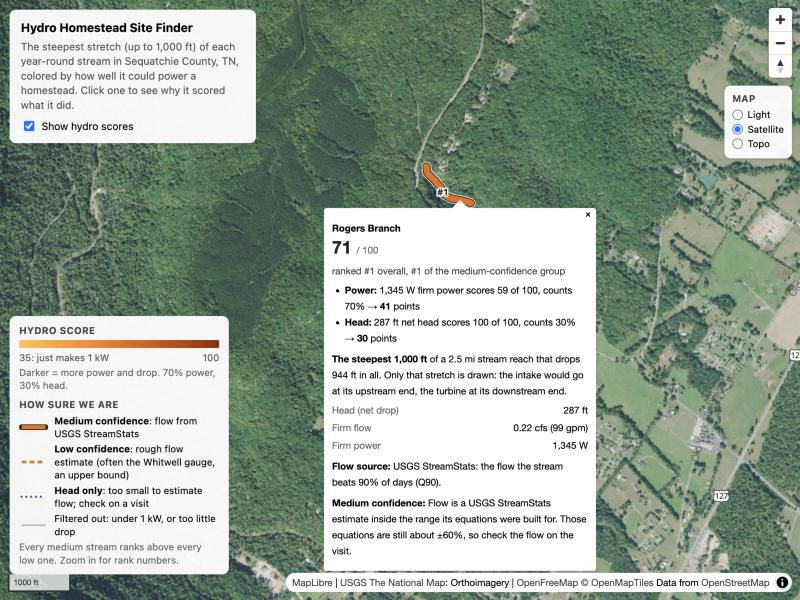
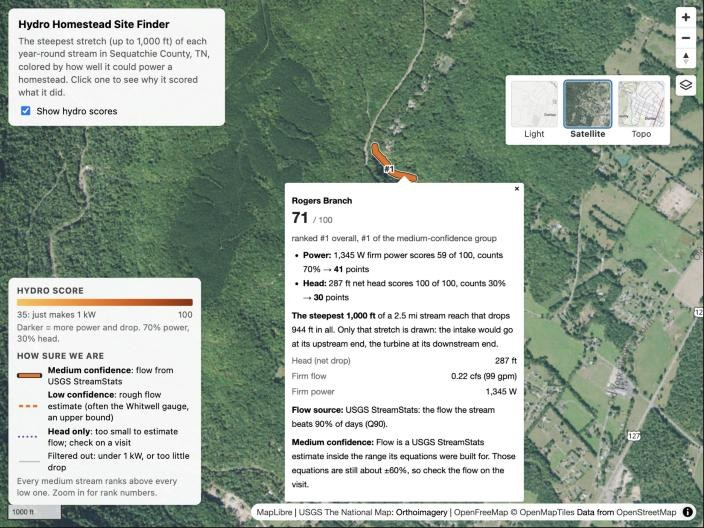
PART 11: Make the basemap picker a layers button in the map controls
The always-open "Map" card under the zoom buttons looked out of place.
It is now a MapLibre control in the same top-right stack: a layers
button styled like the zoom buttons that opens a menu to its left with a
thumbnail of each map (Light, Satellite, Topo). Picking one, clicking
elsewhere or pressing Escape closes it; the button's tooltip names the
current map. As a real control it stacks under the zoom buttons without
a hard-coded offset, so the phone-only panel rule is gone too.

Thumbnails are 128 px crops of each map around Dunlap in
frontend/public/basemaps/. README screenshots retaken (the satellite one
shows the open menu).

diff --git a/frontend/src/BasemapControl.ts b/frontend/src/BasemapControl.ts
@@ -1,0 +1,89 @@
+// The "layers" button under the zoom buttons. It opens a menu to its left with a thumbnail of each
+// basemap; picking one calls onChange. Plain DOM, like MapLibre's own controls, so it stacks with them.
+// The thumbnails (public/basemaps/) are 128 px screenshots of each map around Dunlap, data layers hidden.
+import type { IControl } from "maplibre-gl";
+import { BASEMAPS } from "./basemaps";
+
+// Two stacked sheets: the usual "map layers" icon.
+const ICON = `
+  <svg width="20" height="20" viewBox="0 0 24 24" fill="none" stroke="#333" stroke-width="2"
+       stroke-linejoin="round" aria-hidden="true">
+    <path d="M12 3 2 8.5l10 5.5 10-5.5z" />
+    <path d="m2 13.5 10 5.5 10-5.5" />
+  </svg>`;
+
+export class BasemapControl implements IControl {
+  private container = document.createElement("div");
+  private button = document.createElement("button");
+  private menu = document.createElement("div");
+  private choices = new Map<string, HTMLButtonElement>();
+
+  constructor(
+    public value: string,
+    private onChange: (id: string) => void,
+  ) {}
+
+  onAdd(): HTMLElement {
+    this.container.className = "maplibregl-ctrl basemap-ctrl";
+    const group = document.createElement("div");
+    group.className = "maplibregl-ctrl-group";
+    this.button.type = "button";
+    this.button.innerHTML = ICON;
+    this.button.setAttribute("aria-haspopup", "true");
+    this.button.setAttribute("aria-expanded", "false");
+    this.button.addEventListener("click", () => this.setOpen(this.menu.hidden));
+    group.append(this.button);
+
+    this.menu.className = "basemap-menu";
+    this.menu.hidden = true;
+    for (const b of BASEMAPS) {
+      const choice = document.createElement("button");
+      choice.type = "button";
+      choice.innerHTML = `<img src="/basemaps/${b.id}.jpg" alt="" width="64" height="64" /><span>${b.label}</span>`;
+      choice.addEventListener("click", () => {
+        this.select(b.id);
+        this.setOpen(false);
+        this.button.focus();
+      });
+      this.choices.set(b.id, choice);
+      this.menu.append(choice);
+    }
+    this.container.append(group, this.menu);
+    this.container.addEventListener("keydown", this.onKeyDown);
+    document.addEventListener("pointerdown", this.onPointerDown);
+    this.select(this.value, false);
+    return this.container;
+  }
+
+  onRemove() {
+    document.removeEventListener("pointerdown", this.onPointerDown);
+    this.container.remove();
+  }
+
+  private select(id: string, notify = true) {
+    this.value = id;
+    const label = BASEMAPS.find((b) => b.id === id)?.label ?? id;
+    this.button.title = `Map: ${label}`;
+    this.button.setAttribute("aria-label", `Change map (now ${label})`);
+    for (const [choiceId, choice] of this.choices) choice.setAttribute("aria-pressed", String(choiceId === id));
+    if (notify) this.onChange(id);
+  }
+
+  private setOpen(open: boolean) {
+    this.menu.hidden = !open;
+    this.button.setAttribute("aria-expanded", String(open));
+    if (open) this.choices.get(this.value)?.focus();
+  }
+
+  // Close on Escape or on a click anywhere else.
+  private onKeyDown = (e: KeyboardEvent) => {
+    if (e.key === "Escape" && !this.menu.hidden) {
+      this.setOpen(false);
+      this.button.focus();
+    }
+  };
+
+  private onPointerDown = (e: PointerEvent) => {
+    if (!this.menu.hidden && !this.container.contains(e.target as Node)) this.setOpen(false);
+  };
+}

diff --git a/frontend/src/App.tsx b/frontend/src/App.tsx
@@ -1,6 +1,6 @@
 import { useEffect, useRef, useState } from "react";
 import maplibregl, { type ExpressionSpecification, type MapGeoJSONFeature } from "maplibre-gl";
-import { BasemapSwitcher } from "./BasemapSwitcher";
+import { BasemapControl } from "./BasemapControl";
 import { LIGHT_STYLE, addBasemapLayers, saveBasemap, savedBasemap, showBasemap } from "./basemaps";
 import { Legend } from "./Legend";
 import { CFS_TO_GPM, SCORE_LAYERS, scorePopupHtml } from "./scores";
@@ -51,8 +51,6 @@ export function App() {
   const mapRef = useRef<maplibregl.Map>();
   const [showScores, setShowScores] = useState(true);
   const showScoresRef = useRef(showScores);
-  const [basemap, setBasemap] = useState(savedBasemap);
-  const basemapRef = useRef(basemap);
 
   useEffect(() => {
     const map = new maplibregl.Map({
@@ -63,6 +61,11 @@ export function App() {
     });
     mapRef.current = map;
     map.addControl(new maplibregl.NavigationControl(), "top-right");
+    const basemaps = new BasemapControl(savedBasemap(), (id) => {
+      saveBasemap(id);
+      if (map.getLayer("scores-hit")) showBasemap(map, id);
+    });
+    map.addControl(basemaps, "top-right");
     map.addControl(new maplibregl.ScaleControl({ unit: "imperial" }));
 
     map.on("load", () => {
@@ -117,7 +120,7 @@ export function App() {
       // Every perennial stream has a scored corridor, so the scores replace the streams layer when shown.
       for (const layer of SCORE_LAYERS) map.addLayer(layer);
       setScoresVisible(map, showScoresRef.current);
-      showBasemap(map, basemapRef.current);
+      showBasemap(map, basemaps.value);
 
       // With scores on, a click explains the score; with them off, it shows the stream's numbers.
       map.on("click", (e) => {
@@ -143,12 +146,6 @@ export function App() {
     if (mapRef.current?.getLayer("scores-hit")) setScoresVisible(mapRef.current, showScores);
   }, [showScores]);
 
-  useEffect(() => {
-    basemapRef.current = basemap;
-    saveBasemap(basemap);
-    if (mapRef.current?.getLayer("scores-hit")) showBasemap(mapRef.current, basemap);
-  }, [basemap]);
-
   return (
     <>
       <div ref={container} className="map" />
@@ -164,7 +161,6 @@ export function App() {
           Show hydro scores
         </label>
       </div>
-      <BasemapSwitcher value={basemap} onChange={setBasemap} />
       {showScores && <Legend />}
     </>
   );

diff --git a/frontend/src/styles.css b/frontend/src/styles.css
@@ -170,54 +170,69 @@ body,
   font-size: 12px;
 }
 
-/* Top right, under MapLibre's zoom and compass buttons (3 × 29 px plus their 10 px margin). */
-.basemaps {
+/* Basemap menu (BasemapControl.ts): opens to the left of its button, in MapLibre's control style. */
+.basemap-ctrl {
+  position: relative;
+}
+
+.basemap-ctrl .maplibregl-ctrl-group button {
+  display: grid;
+  place-items: center;
+}
+
+.basemap-menu {
   position: absolute;
-  top: 107px;
-  right: 10px;
-  margin: 0;
-  padding: 8px 10px;
-  border: 0;
-  background: rgba(255, 255, 255, 0.95);
-  border-radius: 8px;
-  box-shadow: 0 1px 4px rgba(0, 0, 0, 0.2);
-  font-size: 12px;
-  line-height: 1.35;
-}
-
-.basemaps legend {
-  float: left;
-  margin: 0 0 4px;
-  padding: 0;
-  font-size: 12px;
-  font-weight: 700;
-  text-transform: uppercase;
-  letter-spacing: 0.04em;
-  color: #444;
-}
-
-.basemaps label {
-  clear: left;
+  top: 0;
+  right: calc(100% + 8px);
   display: flex;
   gap: 6px;
+  padding: 6px;
+  background: #fff;
+  border-radius: 4px;
+  box-shadow: 0 0 0 2px rgba(0, 0, 0, 0.1);
+}
+
+.basemap-menu[hidden] {
+  display: none;
+}
+
+.basemap-menu button {
+  display: flex;
+  flex-direction: column;
+  gap: 3px;
   align-items: center;
-  margin: 2px 0;
+  padding: 3px;
+  border: 0;
+  border-radius: 4px;
+  background: none;
+  font: 12px system-ui, -apple-system, sans-serif;
+  color: #333;
   cursor: pointer;
 }
 
-.basemaps input {
-  margin: 0;
+.basemap-menu button:hover {
+  background: #f0f0f0;
+}
+
+.basemap-menu img {
+  display: block;
+  border-radius: 3px;
+  box-shadow: 0 0 0 1px rgba(0, 0, 0, 0.15);
+  outline: 2px solid transparent;
+  outline-offset: 1px;
+}
+
+.basemap-menu button[aria-pressed="true"] {
+  font-weight: 700;
+}
+
+.basemap-menu button[aria-pressed="true"] img {
+  outline-color: #0a7cc1;
 }
 
 @media (max-width: 600px) {
   .legend {
     width: auto;
     right: 12px;
-  }
-
-  /* Leave the right-hand column to the map buttons and the basemap picker. */
-  .panel {
-    max-width: none;
-    right: 107px;
   }
 }

diff --git a/README.md b/README.md
@@ -172,7 +172,7 @@ Open <http://localhost:5173>. The map shows the latest `make score` run (refresh
 | **Faint grey line** | Filtered out: under 1 kW, or too little drop for a turbine. |
 | **#12** labels (zoom in) | The stream's rank on the shortlist. |
 
-Pick the map underneath in the **Map** box at the top right; the map remembers the choice next time:
+To change the map underneath, click the layers button (two stacked sheets) under the zoom buttons and pick a thumbnail. The map remembers your choice next time:
 
 | Map | Use it for |
 | --- | --- |
@@ -182,7 +182,7 @@ Pick the map underneath in the **Map** box at the top right; the map remembers t
 
 Satellite and topo come from the USGS National Map and stop sharpening past about 1:9,000 (zoom 16); closer than that the map just enlarges them. On both, streams and scores get a white outline so they show up on the darker background.
 
-![The same stretch on the satellite map: the top site sits in forest above a road and farm fields](docs/images/map-satellite.jpg)
+![The same stretch on the satellite map, with the map menu open: the top site sits in forest above a road and farm fields](docs/images/map-satellite.jpg)
 
 Click a stretch to see its score and why: how many points power and head each added, which part of the stream it is (how long the stretch is, and how long the whole stream is and how much it drops), the net head (ft), firm flow (cfs and gallons per minute), firm power (W), where the flow number came from, the confidence group and any warnings. Untick **Show hydro scores** to go back to plain streams (bigger streams darker), where a click shows elevation drop, length, slope, drainage area and estimated mean flow.
 
@@ -260,7 +260,7 @@ hydro-homestead/
 │   └── analysis/            # Hydro calculations, StreamStats client, scoring, runs, exports
 ├── migrations/versions/     # Database table definitions
 ├── martin/martin.yaml       # Which tables the tile server publishes
-├── frontend/                # React + MapLibre map app (src/scores.ts: score colors and popup; src/basemaps.ts: light, satellite and topo maps)
+├── frontend/                # React + MapLibre map app (src/scores.ts: score colors and popup; src/basemaps.ts and BasemapControl.ts: light, satellite and topo maps)
 ├── tests/
 │   ├── unit/                # Fast, no Docker needed
 │   ├── integration/         # Starts a throwaway PostGIS in Docker
